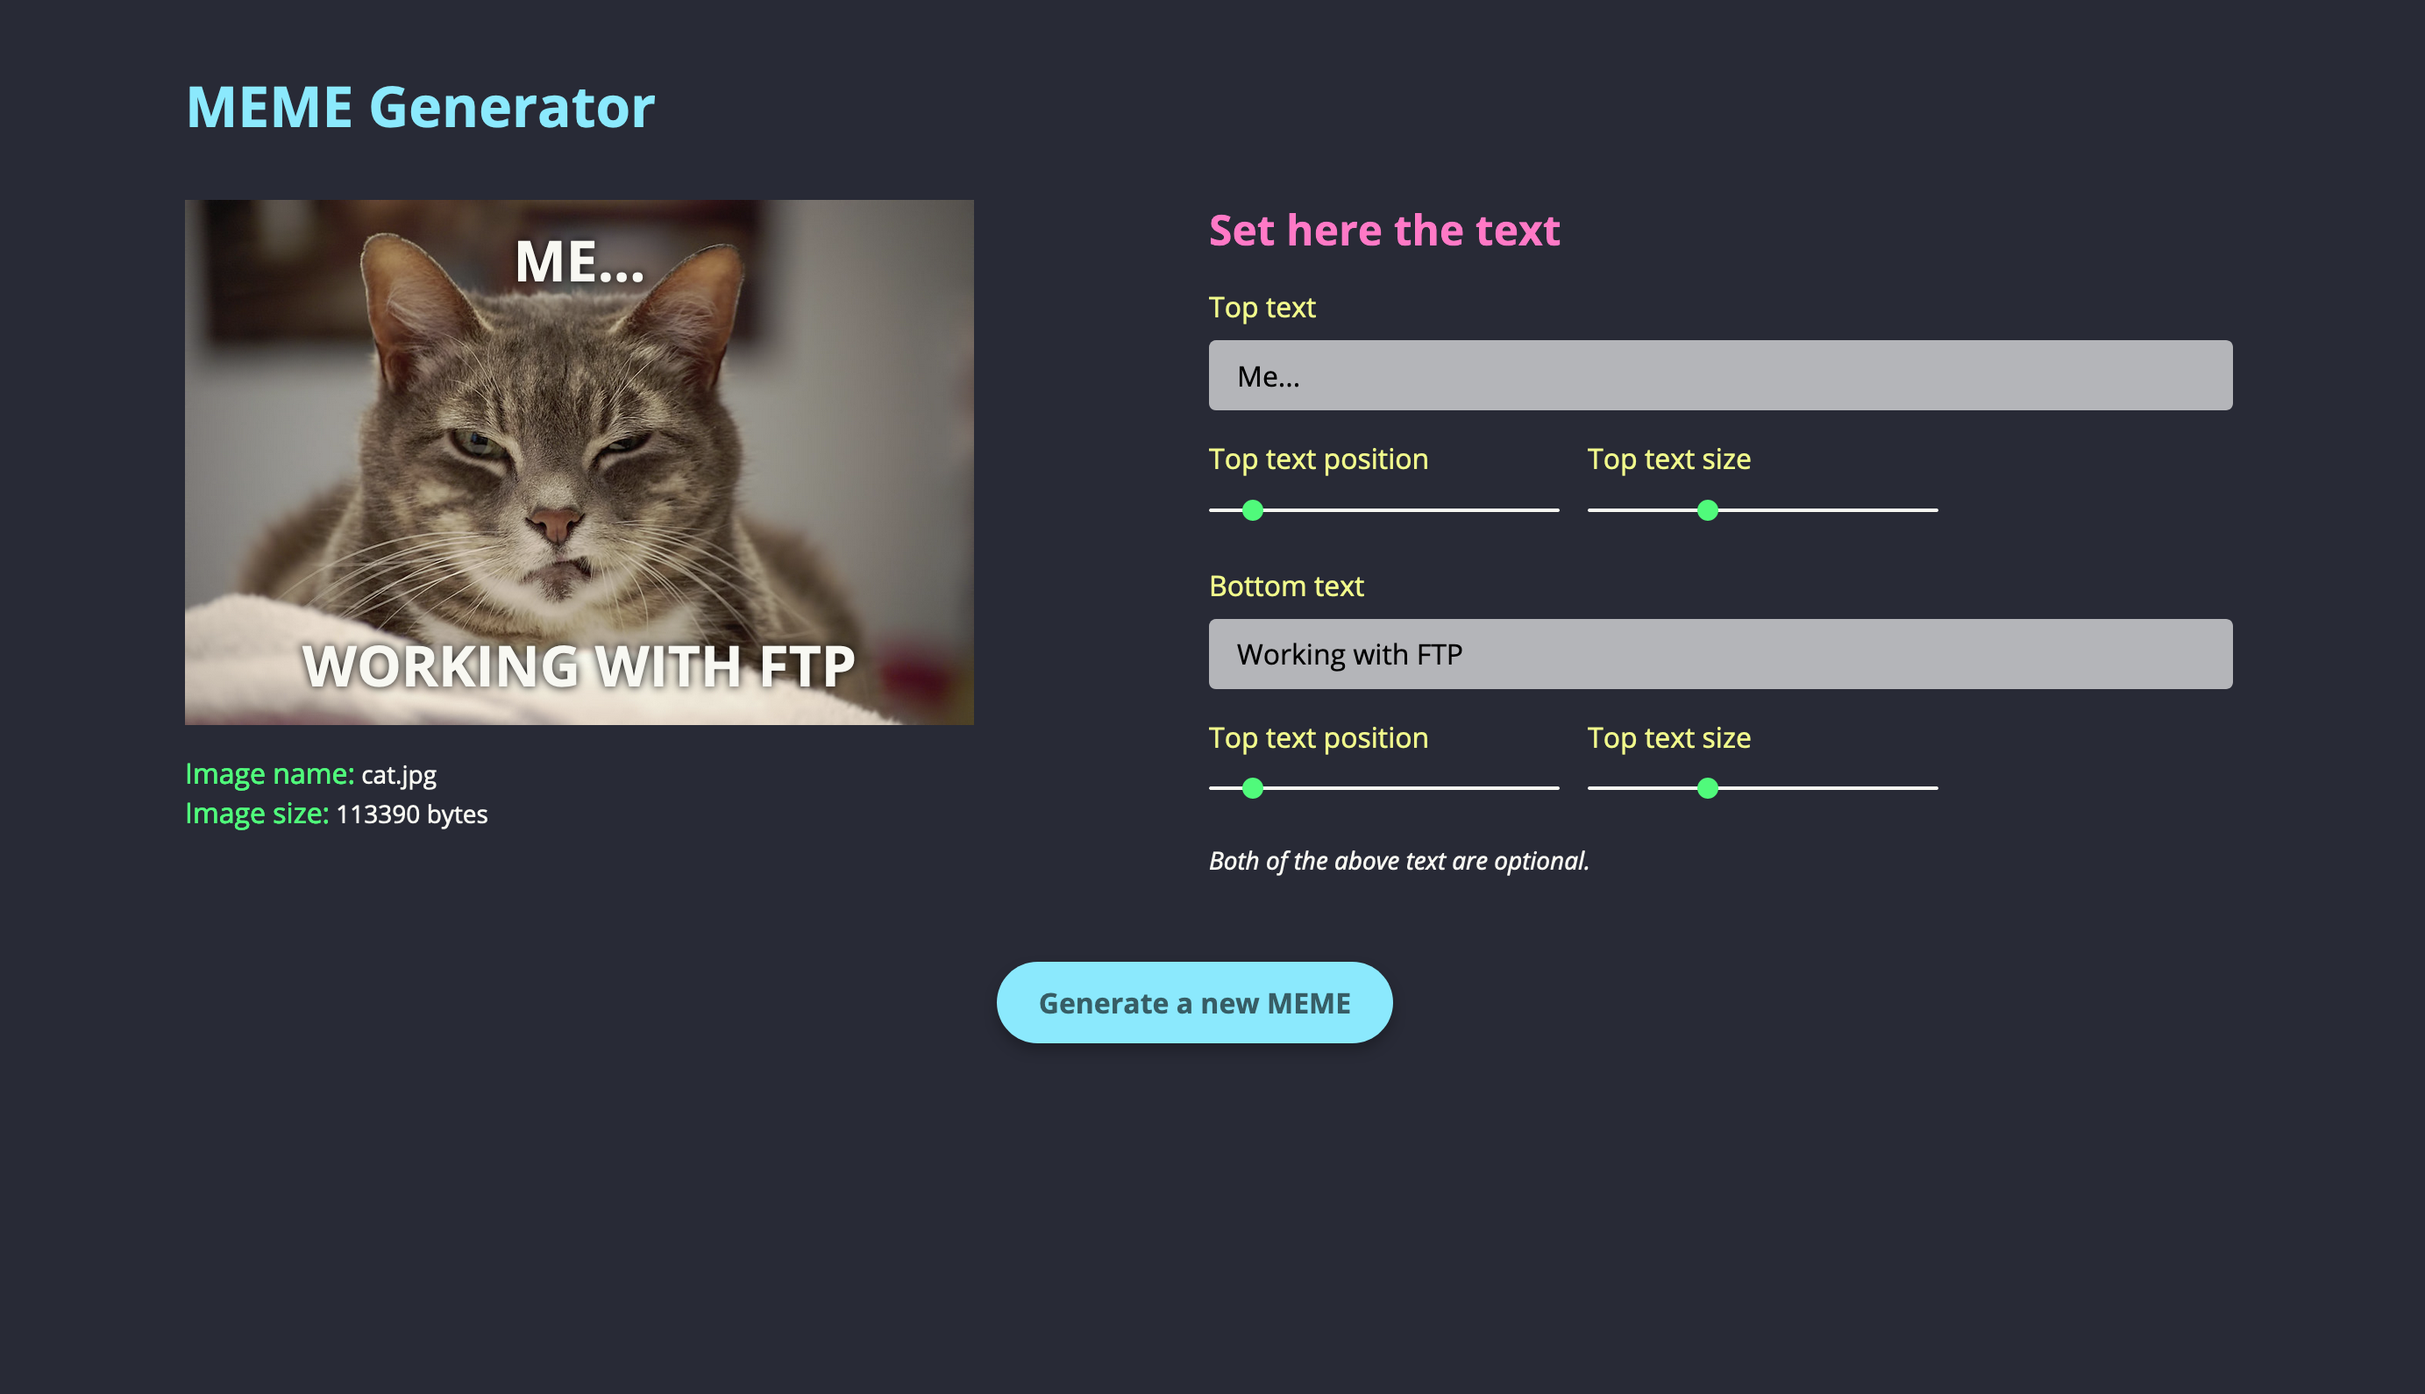
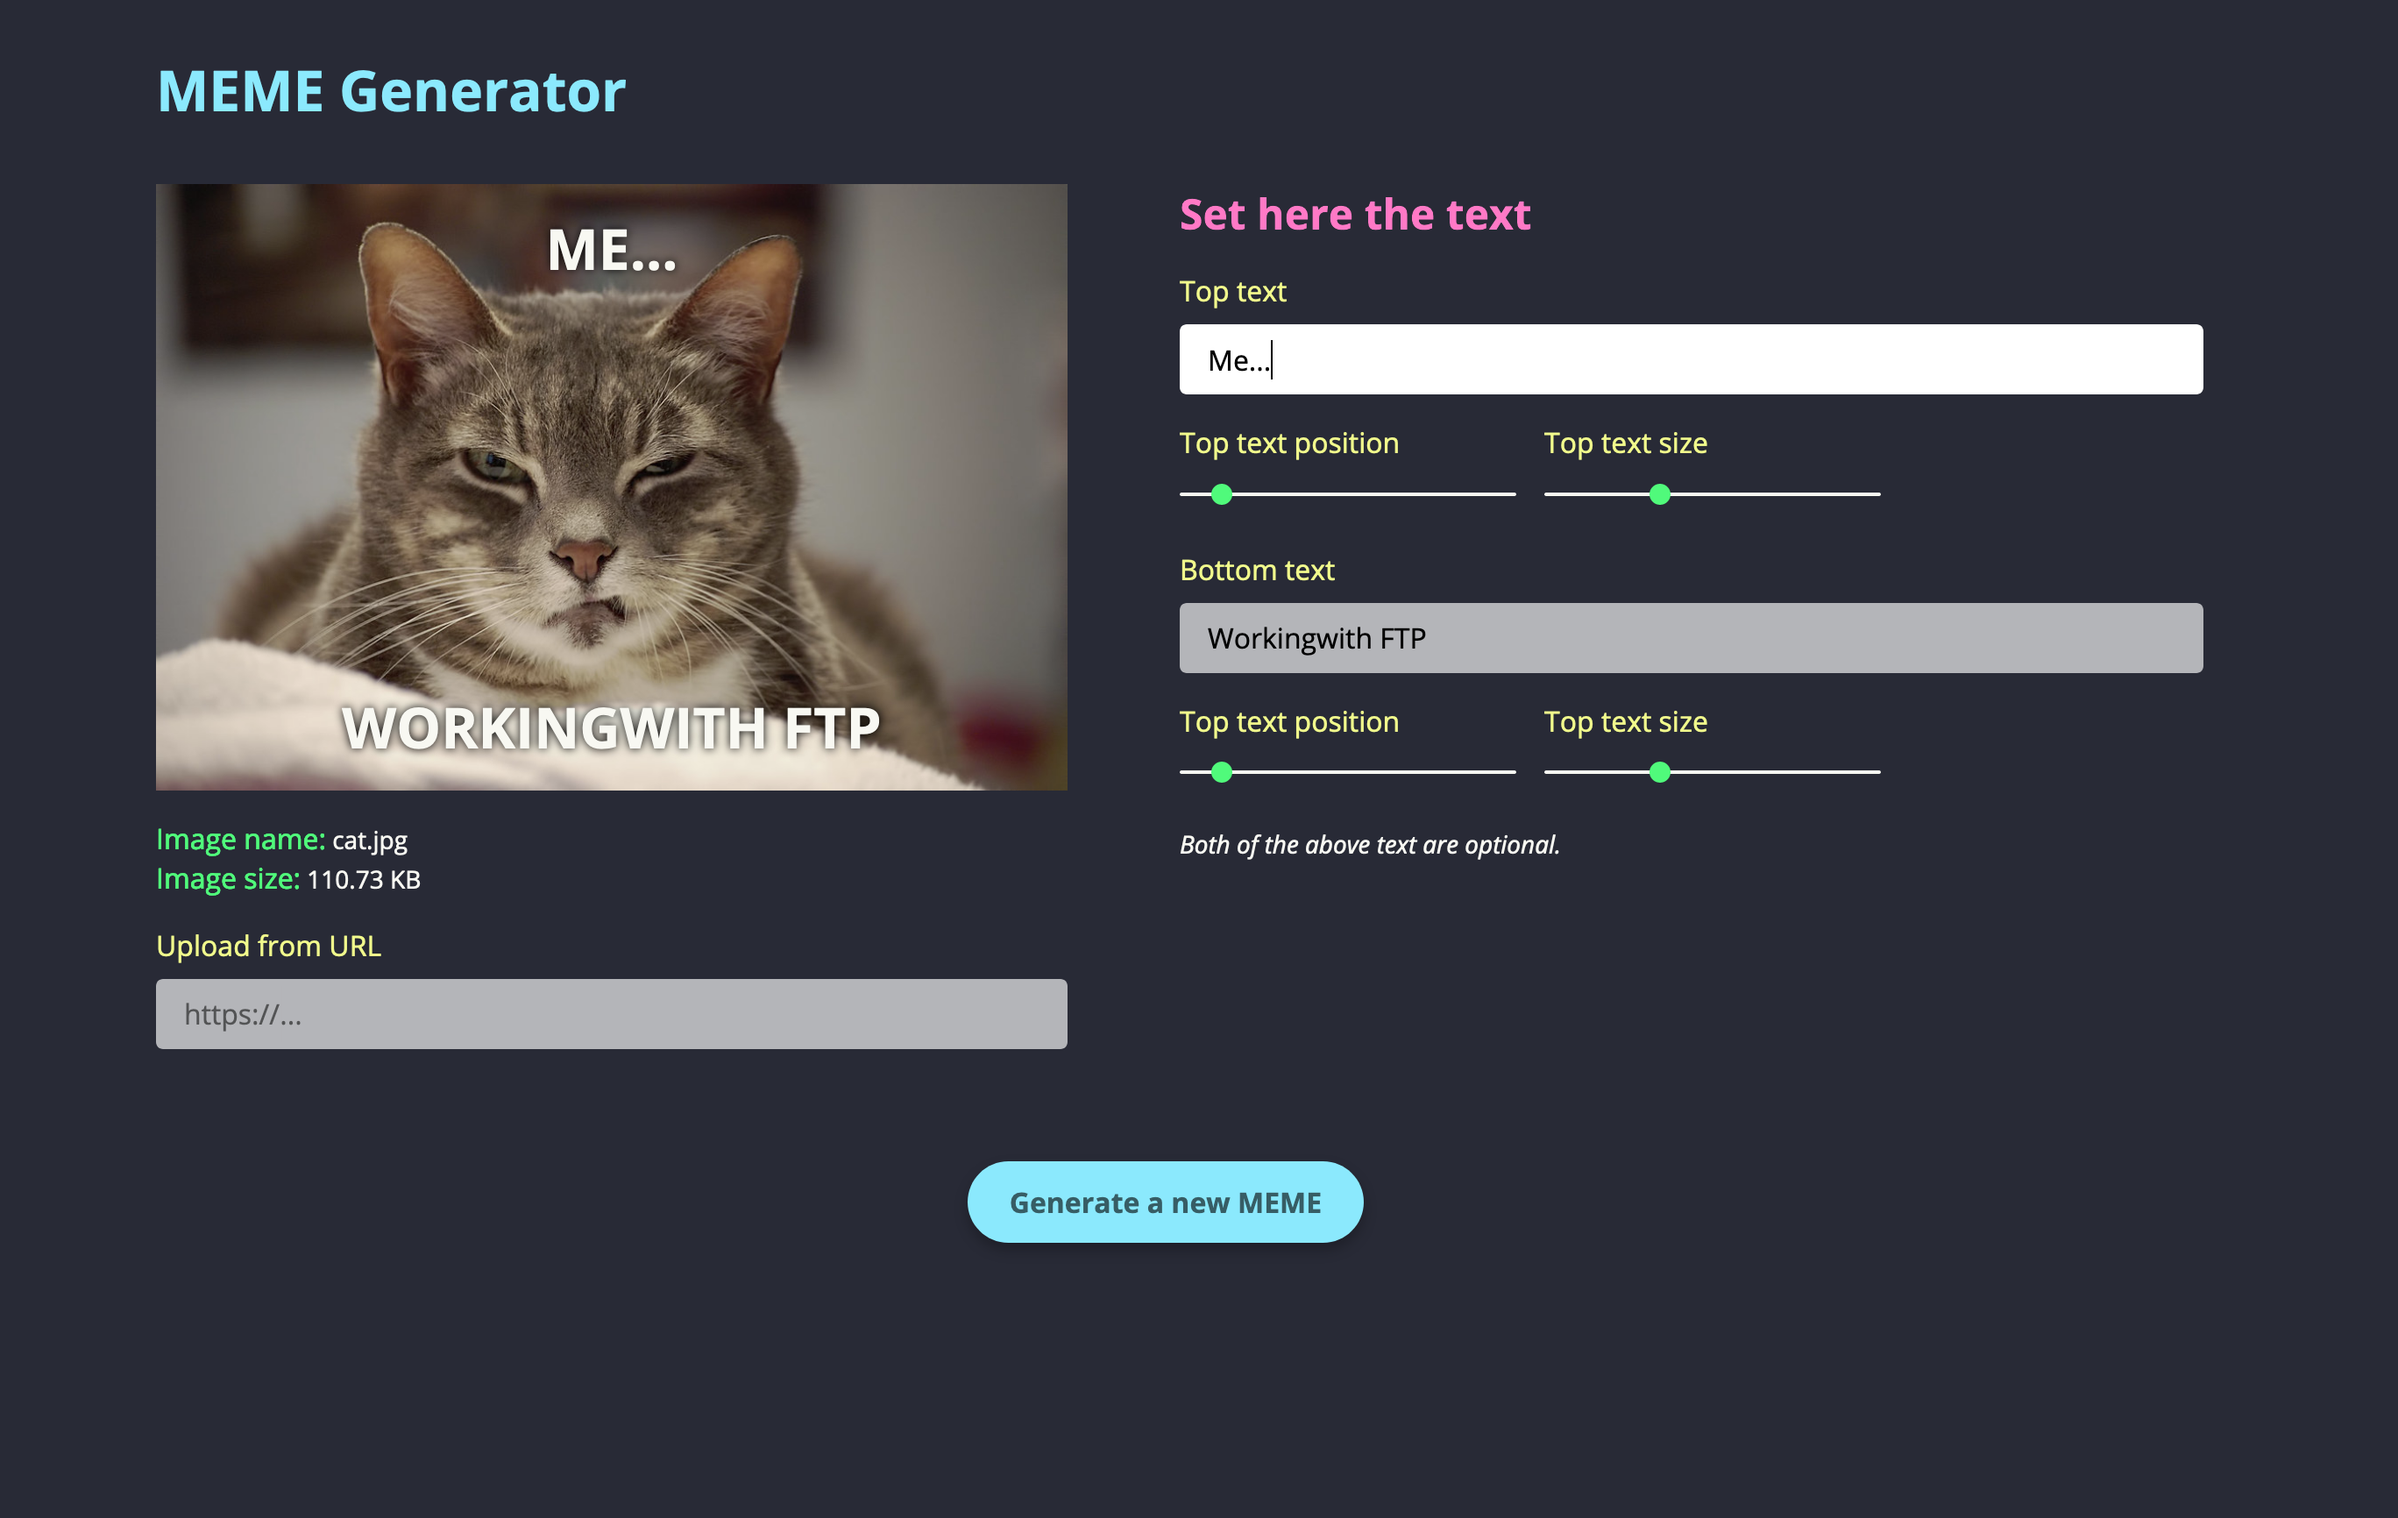
fix: reset error text and image url field placeholder

Changed region(s): [[0.0621, 0.1233, 0.932, 0.8321], [0.0621, 0.0308, 0.2796, 0.0925], [0.4971, 0.6164, 0.6524, 0.6472]]

diff --git a/src/components/App/UploadImage/index.js b/src/components/App/UploadImage/index.js
@@ -32,6 +32,7 @@ const UpdateImage = () => {
         setImage(newImage);
         // clean eventaul external image url
         setUrlExternal('');
+        setUrlError(false);
 
         if (!meme.state.imageSelected) {
             meme.dispatch({ type: 'IMAGE_SELECTED', payload: true });
@@ -101,6 +102,7 @@ const UpdateImage = () => {
                 <Input
                     type="url"
                     value={urlExternal}
+                    placeholder="https://..."
                     onChange={handleExternalImage}
                 />
                 {error}

diff --git a/src/components/App/UploadImage/ActiveImage.js b/src/components/App/UploadImage/ActiveImage.js
@@ -17,6 +17,7 @@ const Text = styled.div`
     text-transform: uppercase;
     text-align: center;
     line-height: 1.2;
+    font-weight: ${({ theme }) => theme.typography.bold};
     font-size: ${props => props.fsize}em;
     text-shadow: 0px 0px 5px ${({ theme }) => theme.colors.black};
     ${props =>

diff --git a/README.md b/README.md
@@ -1,6 +1,6 @@
 # React Meme Generator
 
-![Version](https://img.shields.io/badge/version-0.2.0-success)
+![Version](https://img.shields.io/badge/version-0.3.0-success)
 
 ![App Screen](./src/assets/app-screenshot.png)
 
